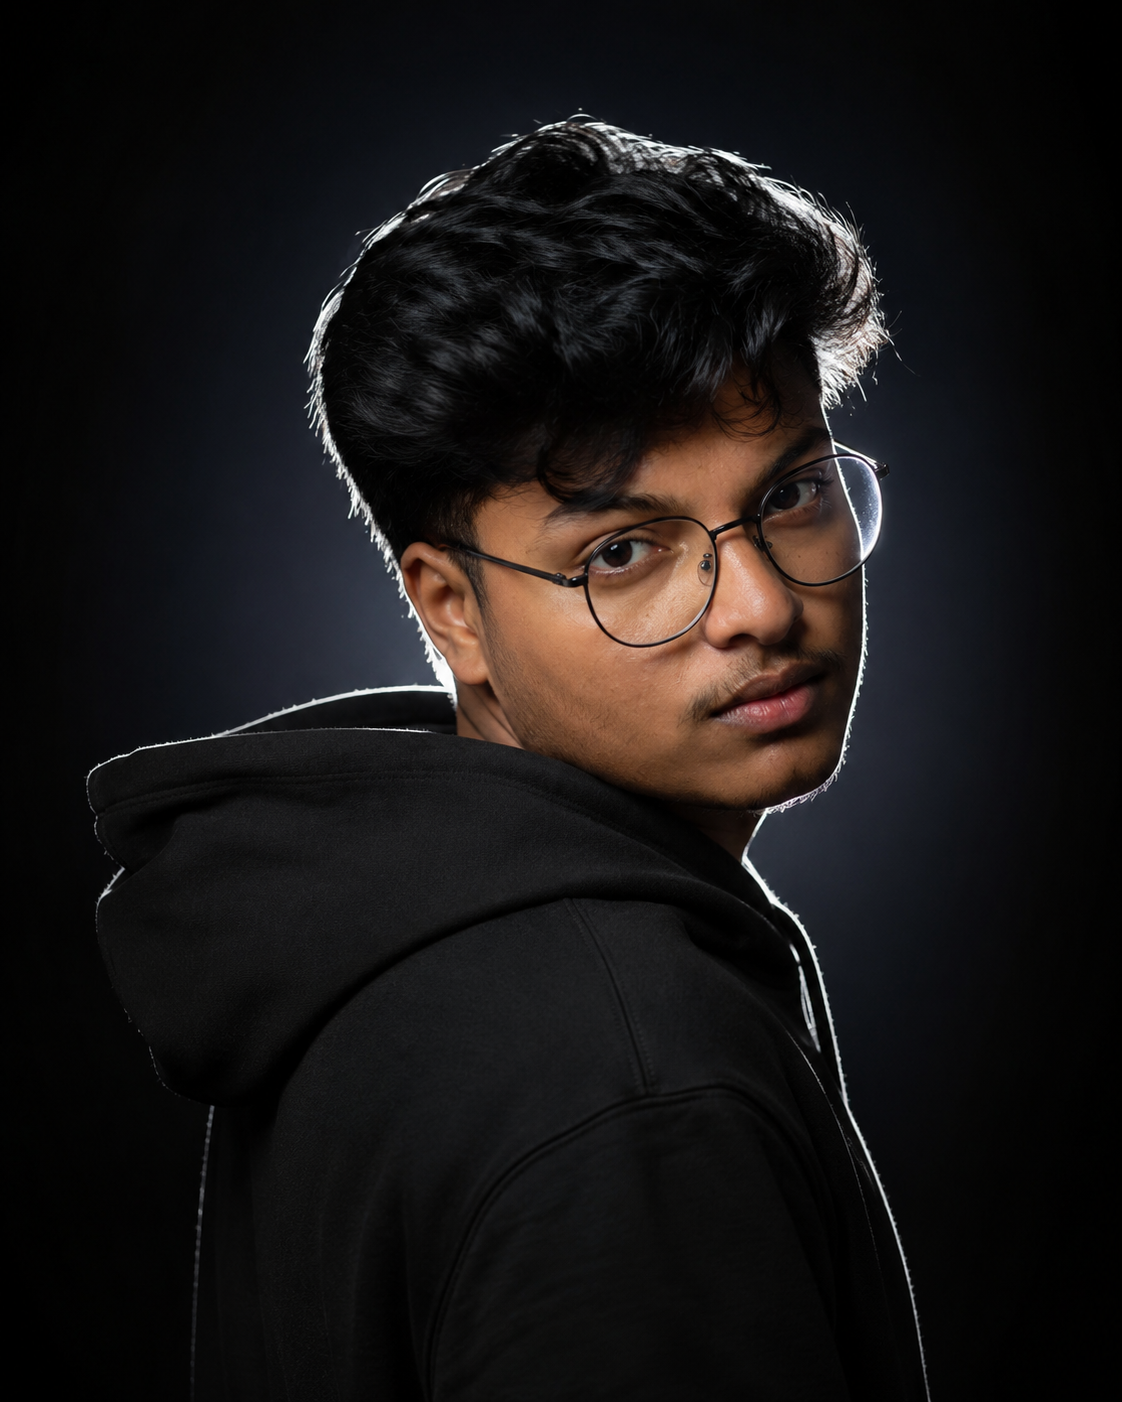
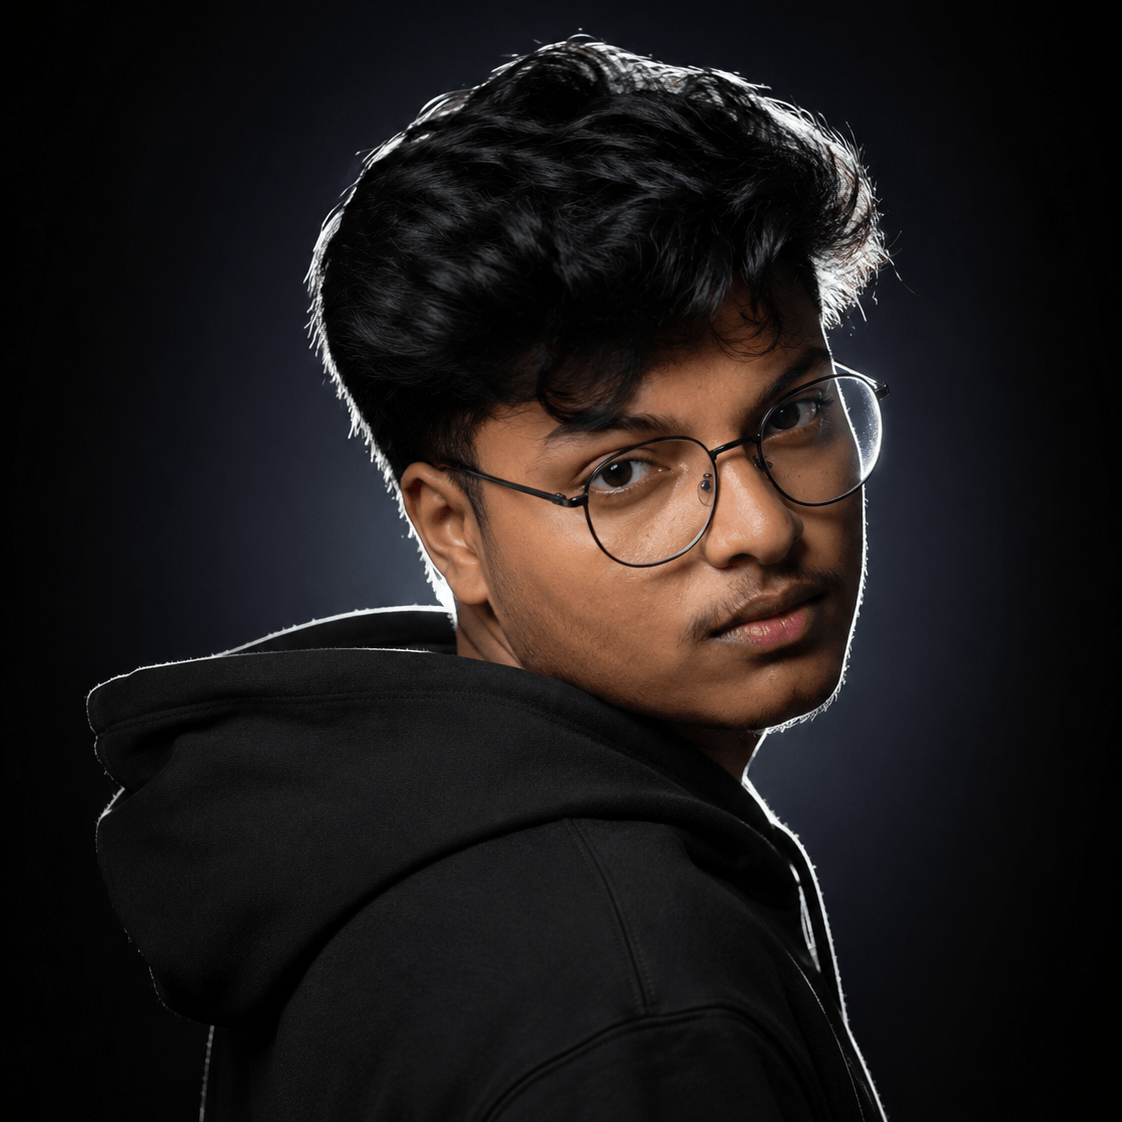
fix(footer): correct LeetCode pfp aspect ratio and face centering to remove squeeze

diff --git a/components/ui/InfiniteMenu/InfiniteMenu.tsx b/components/ui/InfiniteMenu/InfiniteMenu.tsx
@@ -865,20 +865,38 @@ class InfiniteGridMenu {
         const x = (i % this.atlasSize) * cellSize;
         const y = Math.floor(i / this.atlasSize) * cellSize;
 
+        // Preserve aspect ratio (cover mode) so faces are never squeezed
+        const naturalW = img.naturalWidth || img.width || cellSize;
+        const naturalH = img.naturalHeight || img.height || cellSize;
+        const imgAspect = naturalW / naturalH;
+        let sWidth = naturalW;
+        let sHeight = naturalH;
+        let sx = 0;
+        let sy = 0;
+
+        if (imgAspect > 1) {
+          sWidth = naturalH;
+          sx = (naturalW - sWidth) / 2;
+        } else if (imgAspect < 1) {
+          sHeight = naturalW;
+          sy = (naturalH - sHeight) * 0.22; // Bias slightly upward for face centering
+        }
+
+        ctx.save();
+        ctx.beginPath();
+        ctx.rect(x, y, cellSize, cellSize);
+        ctx.clip();
+
         if (zoom === 1.0) {
-          ctx.drawImage(img, x, y, cellSize, cellSize);
+          ctx.drawImage(img, sx, sy, sWidth, sHeight, x, y, cellSize, cellSize);
         } else {
-          ctx.save();
-          ctx.beginPath();
-          ctx.rect(x, y, cellSize, cellSize);
-          ctx.clip();
           const drawW = cellSize * zoom;
           const drawH = cellSize * zoom;
           const drawX = x + (cellSize - drawW) / 2;
           const drawY = y + (cellSize - drawH) / 2;
-          ctx.drawImage(img, drawX, drawY, drawW, drawH);
-          ctx.restore();
+          ctx.drawImage(img, sx, sy, sWidth, sHeight, drawX, drawY, drawW, drawH);
         }
+        ctx.restore();
       });
 
       gl.bindTexture(gl.TEXTURE_2D, this.tex);

diff --git a/components/layout/Footer/Footer.tsx b/components/layout/Footer/Footer.tsx
@@ -38,7 +38,7 @@ const HANDLE_ITEMS: MenuItem[] = [
     buttonTextColor: '#ffffff',
   },
   {
-    image: '/profile1.png',
+    image: '/leetcode.png',
     link: 'https://leetcode.com/u/zenithsoumya',
     title: 'LeetCode',
     description: 'Algorithms, Data Structures & high-performance problem solving.',
